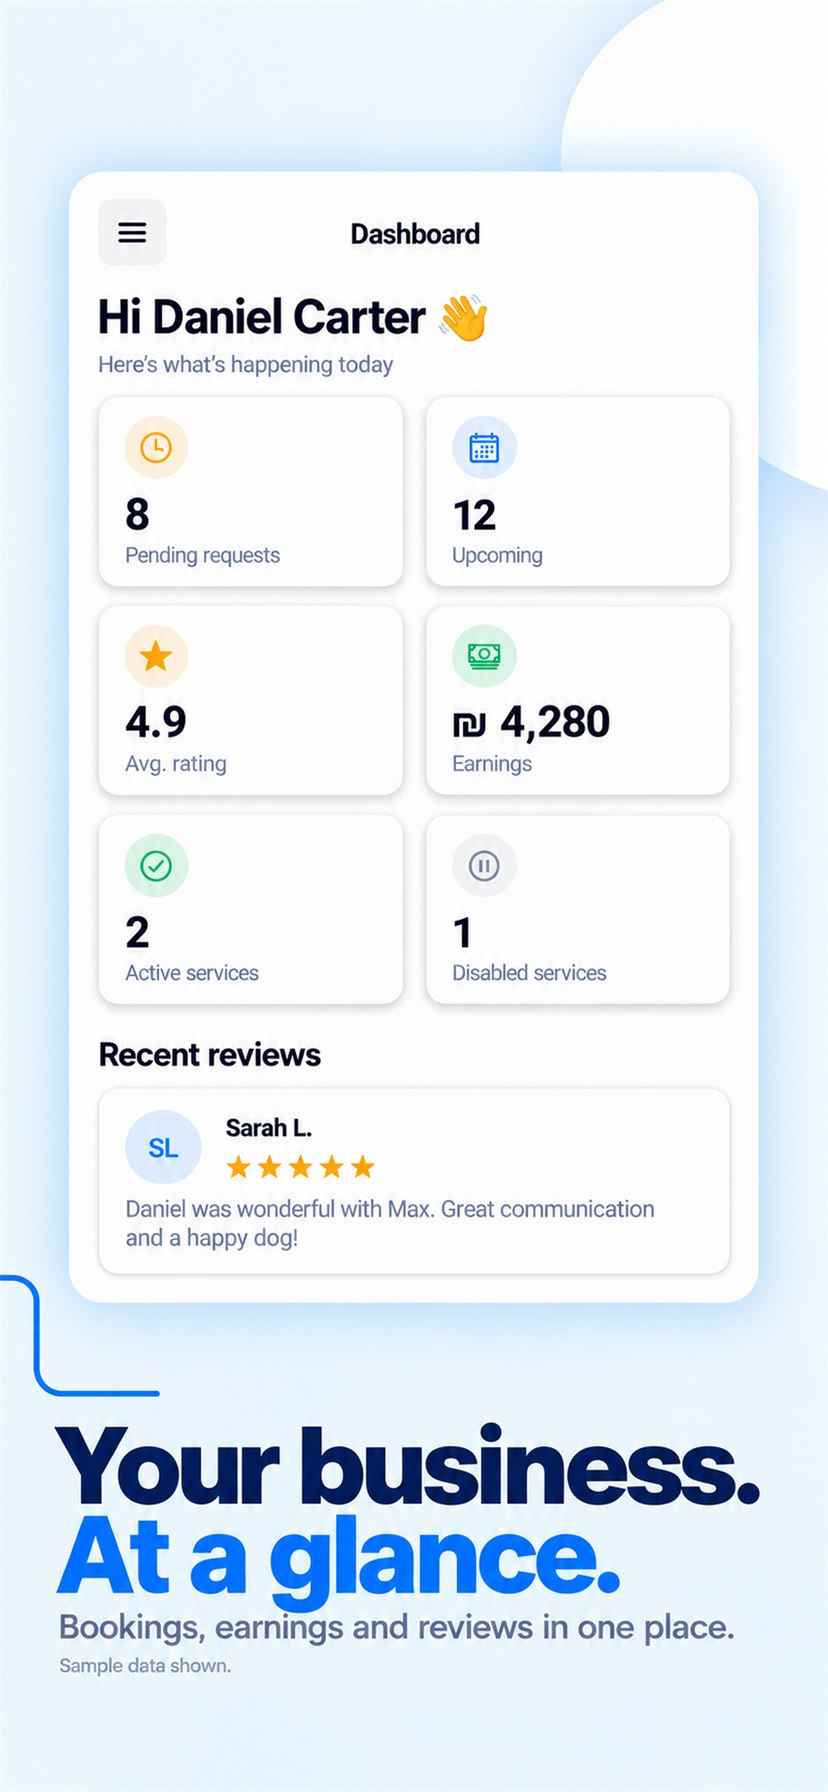
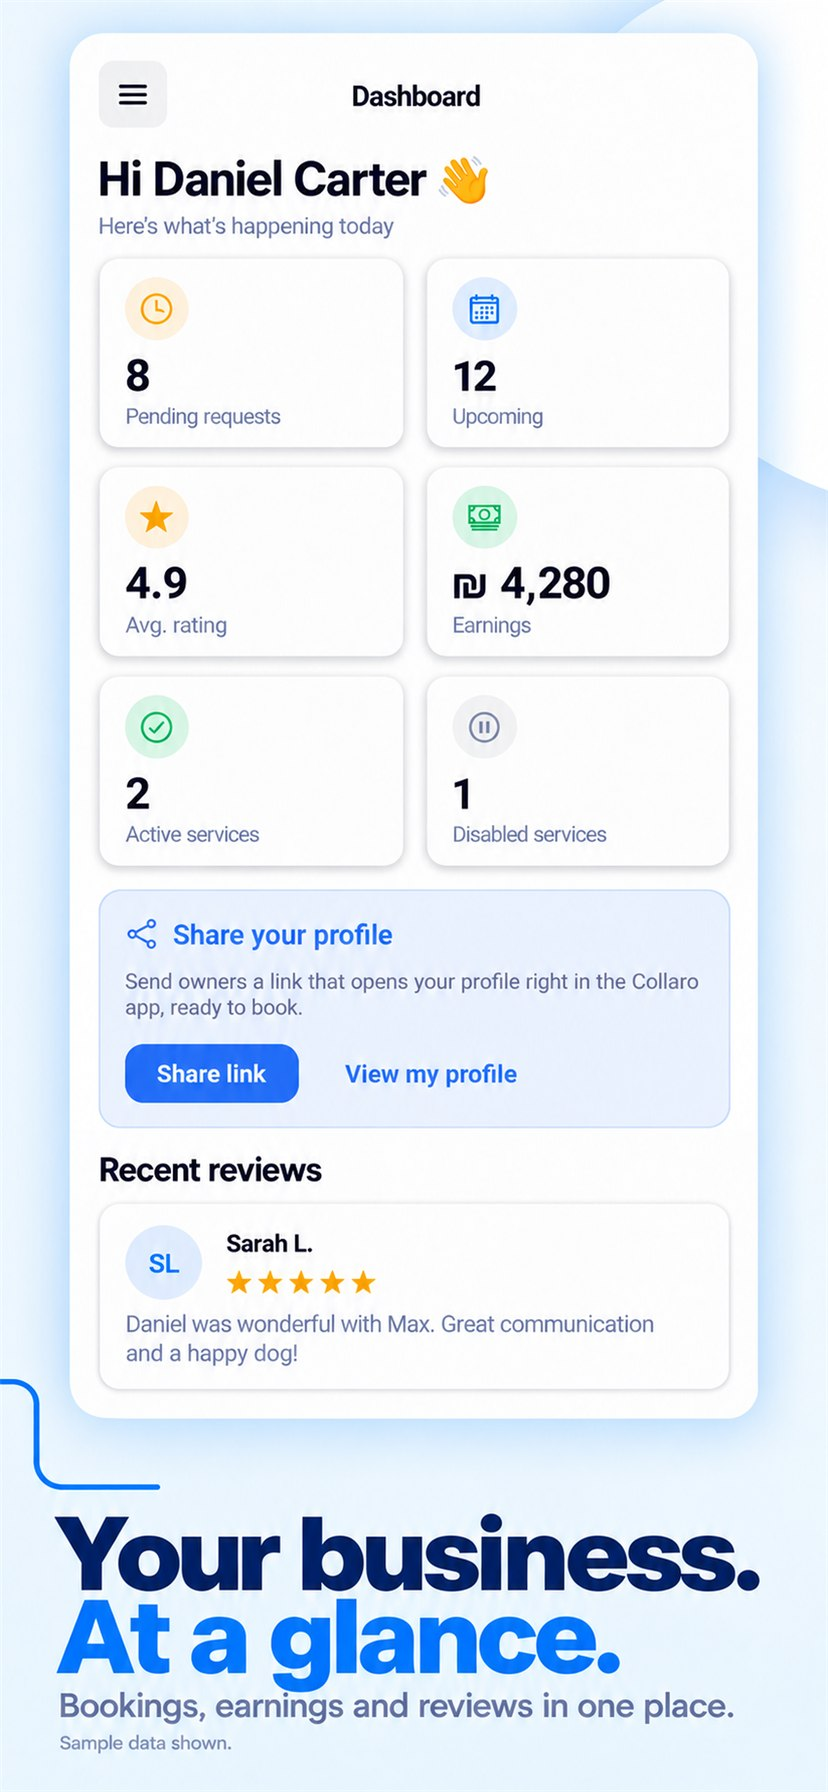
save

diff --git a/docs/he/index.html b/docs/he/index.html
@@ -198,7 +198,7 @@
             </li>
             <li class="screens__item reveal">
               <figure class="shot">
-                <img src="/assets/img/screenshots/dashboard.he.jpg" alt="צילום מסך מהחנות בכותרת ״העסק שלכם. במבט אחד.״ — לוח הבקרה של נותן השירות עם בקשות ממתינות, הזמנות קרובות, דירוג ממוצע, הכנסות, שירותים פעילים וביקורות אחרונות" width="828" height="1792" loading="lazy" />
+                <img src="/assets/img/screenshots/dashboard.he.jpg" alt="צילום מסך מהחנות בכותרת ״העסק שלכם. במבט אחד.״ — לוח הבקרה של נותן השירות עם בקשות ממתינות, הזמנות קרובות, דירוג ממוצע, הכנסות, שירותים פעילים ומושבתים, כרטיס ״שתפו את הפרופיל שלכם״ וביקורות אחרונות" width="828" height="1792" loading="lazy" />
               </figure>
               <p class="screens__title">העסק שלכם במבט אחד</p>
             </li>

diff --git a/docs/index.html b/docs/index.html
@@ -198,7 +198,7 @@
             </li>
             <li class="screens__item reveal">
               <figure class="shot">
-                <img src="/assets/img/screenshots/dashboard.en.jpg" alt="Store screenshot titled “Your business. At a glance.” — the provider dashboard with pending requests, upcoming bookings, average rating, earnings, active services and recent reviews" width="828" height="1792" loading="lazy" />
+                <img src="/assets/img/screenshots/dashboard.en.jpg" alt="Store screenshot titled “Your business. At a glance.” — the provider dashboard with pending requests, upcoming bookings, average rating, earnings, active and disabled services, a “Share your profile” card and recent reviews" width="828" height="1792" loading="lazy" />
               </figure>
               <p class="screens__title">Your business at a glance</p>
             </li>
